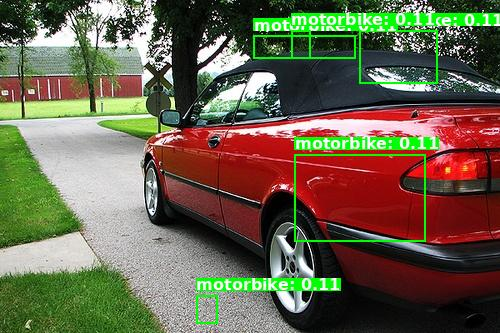
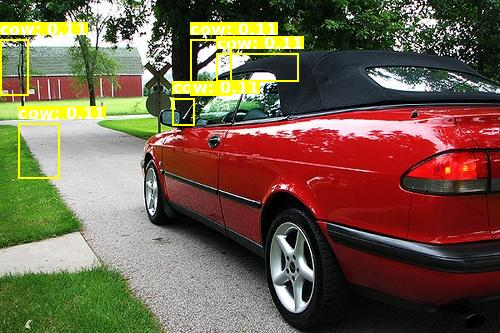
SSD512 functional

diff --git a/models/experimental/SSD512/tt/layers/tt_vgg_backbone.py b/models/experimental/SSD512/tt/layers/tt_vgg_backbone.py
@@ -9,6 +9,7 @@ from models.tt_cnn.tt.builder import (
     AutoShardedStrategyConfiguration,
     BlockShardedStrategyConfiguration,
     HeightShardedStrategyConfiguration,
+    L1FullSliceStrategyConfiguration,
 )
 from models.experimental.SSD512.tt.utils import Conv2dOperation, Maxpool2DOperation, override_conv_config
 
@@ -22,41 +23,151 @@ class VGGBackboneOptimizationConfig:
     conv5: dict
     conv8: dict
     conv9: dict
+    conv10: dict
+    conv11: dict
     conv12: dict
+    conv13: dict
+    conv14: dict
+    conv15: dict
+    conv16: dict
+    conv17: dict
+    conv18: dict
+    conv19: dict
 
 
 vgg_backbone_optimizations = VGGBackboneOptimizationConfig(
     conv1={
         "sharding_strategy": HeightShardedStrategyConfiguration(act_block_h_override=15 * 32),
+        "slice_strategy": L1FullSliceStrategyConfiguration(),
+        "enable_act_double_buffer": True,
+        "enable_weights_double_buffer": True,
         "deallocate_activation": True,
+        "reallocate_halo_output": True,
     },
     conv2={
         "sharding_strategy": HeightShardedStrategyConfiguration(reshard_if_not_optimal=True, act_block_h_override=32),
+        "enable_act_double_buffer": False,
+        "enable_weights_double_buffer": False,
         "deallocate_activation": True,
+        "reallocate_halo_output": True,
     },
     conv3={
-        "sharding_strategy": BlockShardedStrategyConfiguration(act_block_h_override=15 * 32),
+        "sharding_strategy": BlockShardedStrategyConfiguration(act_block_h_override=32),
+        "slice_strategy": L1FullSliceStrategyConfiguration(),
+        "enable_act_double_buffer": True,
+        "enable_weights_double_buffer": True,
         "deallocate_activation": True,
+        "reallocate_halo_output": True,
     },
     conv4={
-        "sharding_strategy": AutoShardedStrategyConfiguration(),
+        "sharding_strategy": BlockShardedStrategyConfiguration(act_block_h_override=32),
+        "slice_strategy": L1FullSliceStrategyConfiguration(),
+        "enable_act_double_buffer": True,
+        "enable_weights_double_buffer": True,
         "deallocate_activation": True,
+        "reallocate_halo_output": True,
     },
     conv5={
         "sharding_strategy": BlockShardedStrategyConfiguration(act_block_h_override=32),
+        "slice_strategy": L1FullSliceStrategyConfiguration(),
+        "enable_act_double_buffer": True,
+        "enable_weights_double_buffer": True,
         "deallocate_activation": True,
+        "reallocate_halo_output": True,
     },
     conv8={
         "sharding_strategy": BlockShardedStrategyConfiguration(act_block_h_override=32),
+        "slice_strategy": L1FullSliceStrategyConfiguration(),
+        "enable_act_double_buffer": True,
+        "enable_weights_double_buffer": True,
         "deallocate_activation": True,
+        "reallocate_halo_output": True,
     },
     conv9={
         "sharding_strategy": BlockShardedStrategyConfiguration(act_block_h_override=32),
+        "slice_strategy": L1FullSliceStrategyConfiguration(),
+        "enable_act_double_buffer": True,
+        "enable_weights_double_buffer": True,
         "deallocate_activation": True,
+        "reallocate_halo_output": True,
+    },
+    conv10={
+        "sharding_strategy": BlockShardedStrategyConfiguration(act_block_h_override=32),
+        "slice_strategy": L1FullSliceStrategyConfiguration(),
+        "enable_act_double_buffer": True,
+        "enable_weights_double_buffer": True,
+        "deallocate_activation": True,
+        "reallocate_halo_output": True,
+    },
+    conv11={
+        "sharding_strategy": AutoShardedStrategyConfiguration(),
+        "enable_act_double_buffer": False,
+        "enable_weights_double_buffer": False,
+        "deallocate_activation": True,
+        "reallocate_halo_output": True,
     },
     conv12={
         "sharding_strategy": BlockShardedStrategyConfiguration(reshard_if_not_optimal=True, act_block_h_override=32),
+        "enable_act_double_buffer": False,
+        "enable_weights_double_buffer": False,
         "deallocate_activation": True,
+        "reallocate_halo_output": True,
+    },
+    conv13={
+        "sharding_strategy": BlockShardedStrategyConfiguration(act_block_h_override=32),
+        "slice_strategy": L1FullSliceStrategyConfiguration(),
+        "enable_act_double_buffer": True,
+        "enable_weights_double_buffer": True,
+        "deallocate_activation": True,
+        "reallocate_halo_output": True,
+    },
+    conv14={
+        "sharding_strategy": BlockShardedStrategyConfiguration(act_block_h_override=32),
+        "slice_strategy": L1FullSliceStrategyConfiguration(),
+        "enable_act_double_buffer": True,
+        "enable_weights_double_buffer": True,
+        "deallocate_activation": True,
+        "reallocate_halo_output": True,
+    },
+    conv15={
+        "sharding_strategy": BlockShardedStrategyConfiguration(act_block_h_override=32),
+        "slice_strategy": L1FullSliceStrategyConfiguration(),
+        "enable_act_double_buffer": True,
+        "enable_weights_double_buffer": True,
+        "deallocate_activation": True,
+        "reallocate_halo_output": True,
+    },
+    conv16={
+        "sharding_strategy": BlockShardedStrategyConfiguration(act_block_h_override=32),
+        "slice_strategy": L1FullSliceStrategyConfiguration(),
+        "enable_act_double_buffer": True,
+        "enable_weights_double_buffer": True,
+        "deallocate_activation": True,
+        "reallocate_halo_output": True,
+    },
+    conv17={
+        "sharding_strategy": BlockShardedStrategyConfiguration(act_block_h_override=32),
+        "slice_strategy": L1FullSliceStrategyConfiguration(),
+        "enable_act_double_buffer": True,
+        "enable_weights_double_buffer": True,
+        "deallocate_activation": True,
+        "reallocate_halo_output": True,
+    },
+    conv18={
+        "sharding_strategy": BlockShardedStrategyConfiguration(act_block_h_override=32),
+        "slice_strategy": L1FullSliceStrategyConfiguration(),
+        "enable_act_double_buffer": True,
+        "enable_weights_double_buffer": True,
+        "deallocate_activation": True,
+        "reallocate_halo_output": True,
+    },
+    conv19={
+        "sharding_strategy": BlockShardedStrategyConfiguration(act_block_h_override=32),
+        "slice_strategy": L1FullSliceStrategyConfiguration(),
+        "enable_act_double_buffer": True,
+        "enable_weights_double_buffer": True,
+        "deallocate_activation": True,
+        "reallocate_halo_output": True,
     },
 )
 
@@ -68,7 +179,6 @@ class TtVGGBackbone:
         self.device = device
 
         layers = []
-        self.residual_sources = []
 
         # Build layers with per-conv optimization overrides
         for i, conv_config in enumerate(config_layers):
@@ -98,6 +208,7 @@ class TtVGGBackbone:
 
     # Forward pass through VGG backbone
     def __call__(self, device, input, return_residual_sources=False):
+        residual_sources = []
         for i, layer in enumerate(self.block):
             if i == 0:
                 result = layer(device, input)
@@ -106,8 +217,8 @@ class TtVGGBackbone:
 
             # Extract feature map at layer 12 for SSD512 multi-scale detection
             if i == 12:
-                self.residual_sources.append(result)
+                residual_sources.append(result)
 
         if return_residual_sources:
-            return result, self.residual_sources
+            return result, residual_sources
         return result

diff --git a/models/experimental/SSD512/tt/tt_ssd.py b/models/experimental/SSD512/tt/tt_ssd.py
@@ -11,24 +11,21 @@ from models.experimental.SSD512.tt.layers.tt_multibox_heads import TtMultiBoxHEA
 from models.experimental.SSD512.tt.layers.tt_l2norm import TtL2Norm
 import ttnn
 
-sources_shape = [
-    (1, 512, 64, 64),
-    (1, 1024, 32, 32),
-    (1, 512, 16, 16),
-    (1, 256, 8, 8),
-    (1, 256, 4, 4),
-    (1, 256, 2, 2),
-    (1, 256, 1, 1),
-]
-
 
 class TtSSD:
     # Initializes SSD512 model with VGG backbone, extras network, and multi-box detection heads
     def __init__(self, torch_model, torch_input, device, batch_size: int):
         self.batch_size = batch_size
         self.device = device
-        self.tt_loc_preds = []
-        self.tt_conf_preds = []
+        sources_shape = [
+            (1, 512, 64, 64),
+            (1, 1024, 32, 32),
+            (1, 512, 16, 16),
+            (1, 256, 8, 8),
+            (1, 256, 4, 4),
+            (1, 256, 2, 2),
+            (1, 256, 1, 1),
+        ]
 
         vgg_backbone_config_layers, vgg_torch_output = create_config_layers(
             torch_model=torch_model.base, torch_input=torch_input, return_output_tensor=True
@@ -84,6 +81,7 @@ class TtSSD:
     # Forward pass: extracts multi-scale features and generates location/confidence predictions
     def __call__(self, device, input):
         tt_vgg_out, vgg_sources = self.tt_vgg_backbone(device, input, return_residual_sources=True)
+        tt_loc_preds, tt_conf_preds = [], []
 
         # Reshape and normalize first VGG source for L2Norm
         input_tensor = post_conv_reshape(vgg_sources[0], out_height=64, out_width=64)
@@ -99,7 +97,7 @@ class TtSSD:
         for source, loc_layer, conf_layer in zip(tt_sources, self.loc_kernel_layers, self.conf_kernel_layers):
             loc_pred = loc_layer(device, source)
             conf_pred = conf_layer(device, source)
-            self.tt_loc_preds.append(loc_pred)
-            self.tt_conf_preds.append(conf_pred)
+            tt_loc_preds.append(loc_pred)
+            tt_conf_preds.append(conf_pred)
 
-        return self.tt_loc_preds, self.tt_conf_preds
+        return tt_loc_preds, tt_conf_preds

diff --git a/models/experimental/SSD512/tt/layers/tt_extras_backbone.py b/models/experimental/SSD512/tt/layers/tt_extras_backbone.py
@@ -9,7 +9,6 @@ class TtExtrasBackbone:
     def __init__(self, conv_config_layer, device, batch_size: int):
         self.batch_size = batch_size
         self.device = device
-        self.residual_sources = []
 
         layers = []
         for conv_config in conv_config_layer:
@@ -24,6 +23,7 @@ class TtExtrasBackbone:
         self.block = layers
 
     def __call__(self, device, input, return_residual_sources=False):
+        residual_sources = []
         for i, layer in enumerate(self.block):
             if i == 0:
                 result = layer(device, input)
@@ -31,8 +31,8 @@ class TtExtrasBackbone:
                 result = layer(device, result)
 
             if i % 2 == 1:
-                self.residual_sources.append(result)
+                residual_sources.append(result)
 
         if return_residual_sources:
-            return result, self.residual_sources
+            return result, residual_sources
         return result
